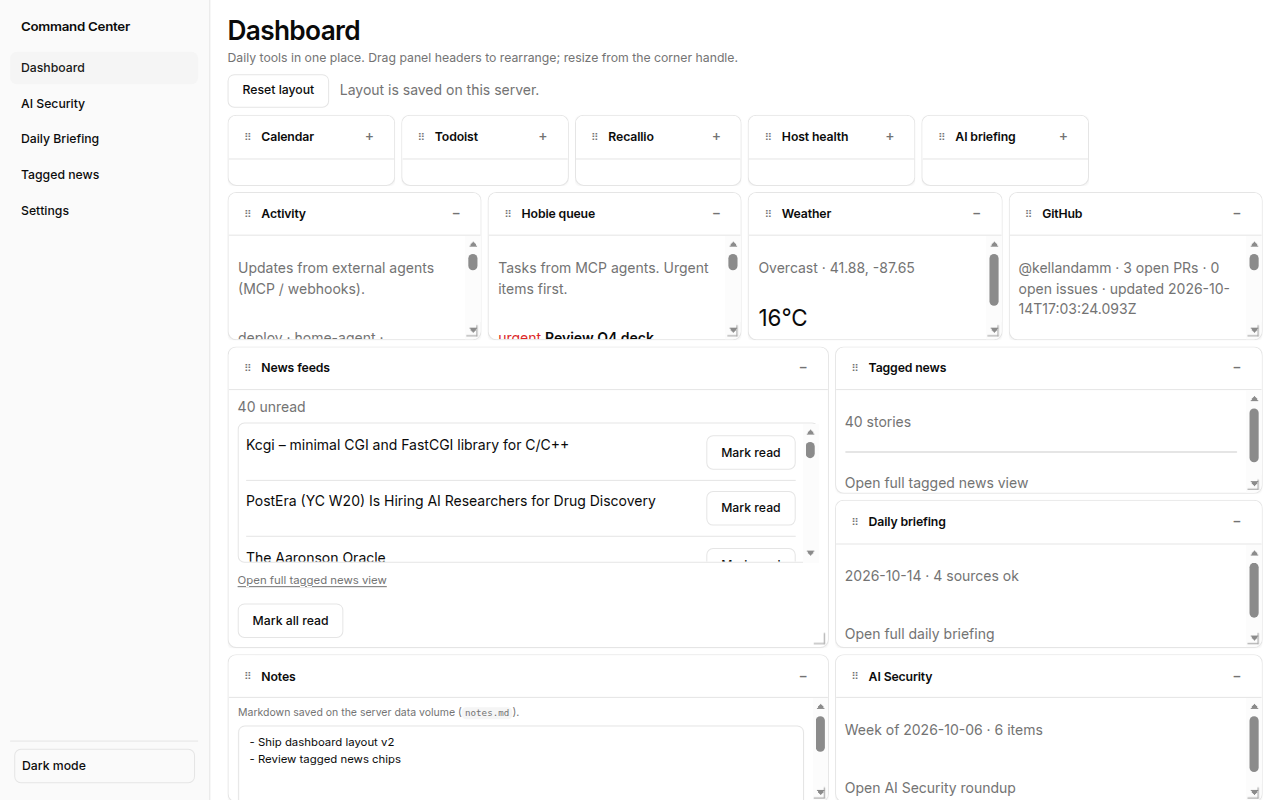
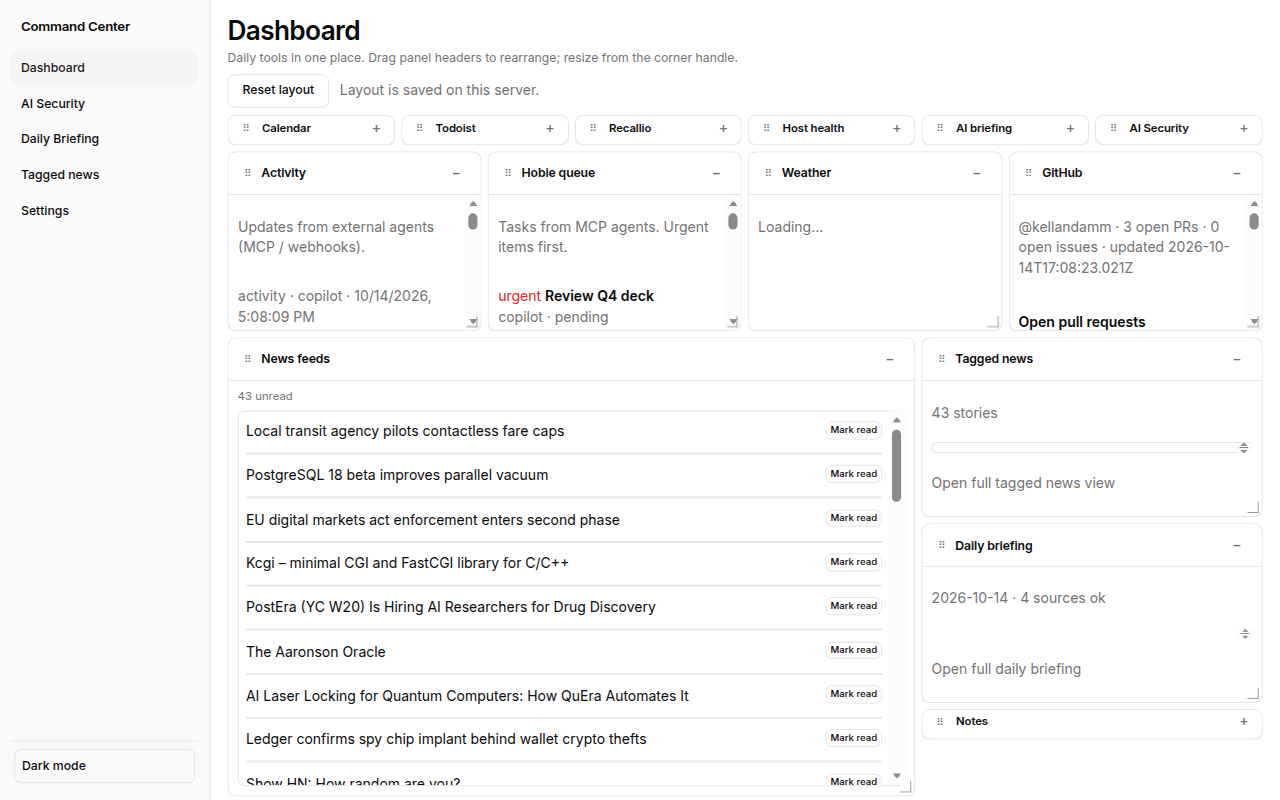
Dashboard: slim collapsed strip, taller feeds, fit 1280×800
- Collapsed-only grid rows use a fixed 30px strip; expanded rows share remaining height.
- Default layout: feeds 8×5, notes/ai-security collapsed, no bottom clipping.
- Compact feed rows in the dashboard tile; seed extra headlines for screenshots.

diff --git a/apps/server/src/ui/dashboard-grid.ts b/apps/server/src/ui/dashboard-grid.ts
@@ -18,7 +18,13 @@ export const dashboardGridCss = `
   min-width:0;min-height:0;overflow:hidden;display:flex;flex-direction:column;position:relative;
   grid-column:var(--gc-start)/span var(--gc-span);grid-row:var(--gr-start)/span var(--gr-span)}
 .dashboard-item.is-dragging{opacity:.92;z-index:30;box-shadow:0 8px 24px rgba(0,0,0,.12)}
+.dashboard-item.is-collapsed{align-self:start;height:var(--dash-strip-h,30px)!important;max-height:var(--dash-strip-h,30px)}
 .dashboard-item.is-collapsed .dashboard-panel-body{display:none}
+.dashboard-item.is-collapsed>.card{flex:0 0 auto;height:100%;min-height:0}
+.dashboard-item.is-collapsed .dashboard-panel-chrome{padding:.28rem .45rem;border-bottom:0;min-height:0}
+.dashboard-item.is-collapsed .dashboard-panel-chrome h2{font-size:.8125rem;line-height:1.2}
+.dashboard-item.is-collapsed .dashboard-drag-handle,.dashboard-item.is-collapsed .dashboard-collapse{
+  min-height:auto;min-width:1.6rem;padding:.1rem .2rem}
 .dashboard-item>.card{
   flex:1;min-height:0;display:flex;flex-direction:column;margin:0;padding:0;overflow:hidden}
 .dashboard-panel-chrome{
@@ -62,7 +68,14 @@ details.feed-item[open] .feed-headline summary::before{content:"▾ "}
 #panel-feeds .feeds-full-link{margin:.25rem 0 0;font-size:.8125rem;flex-shrink:0}
 #panel-feeds .feeds-full-link a{text-decoration:underline;text-underline-offset:2px}
 #panel-feeds .row{flex-shrink:0}
-#panel-feeds #feeds-status{flex-shrink:0;margin:0}
+#panel-feeds #feeds-status{flex-shrink:0;margin:0;font-size:.8125rem}
+#panel-feeds .feeds-full-link,#panel-feeds .row:last-of-type{display:none}
+#panel-feeds .feed-item{margin:0;border-bottom:1px solid var(--border)}
+#panel-feeds .feed-item:last-child{border-bottom:0}
+#panel-feeds .feed-headline summary{font-size:.8125rem;font-weight:500;line-height:1.25}
+#panel-feeds .feed-meta{display:none}
+#panel-feeds .feed-item .feed-summary{display:none}
+#panel-feeds .feed-headline .ghost.mark-read{font-size:.6875rem;padding:.05rem .3rem;min-height:auto}
 @media(max-width:900px){
   .dashboard-grid{grid-template-columns:repeat(6,minmax(0,1fr))}
   .dashboard-item{grid-column:1/-1!important;grid-row:auto!important;height:auto!important}
@@ -75,38 +88,71 @@ export function dashboardGridScript(): string {
 (function(){
   var grid=document.getElementById("dashboard-grid");
   if(!grid)return;
-  var COLS=12,LAYOUT_VERSION=2,GAP=6,REF_ROW=32,saveTimer=null,lastMovedId=null;
+  var COLS=12,LAYOUT_VERSION=2,GAP=6,REF_ROW=32,STRIP_H=30,saveTimer=null,lastMovedId=null;
   grid.style.setProperty("--dash-gap",GAP+"px");
+  grid.style.setProperty("--dash-strip-h",STRIP_H+"px");
   grid.style.setProperty("--dash-rows","8");
-  function layoutRowCount(panels){
-    var max=8;
+  function layoutMaxEnd(panels){
+    var max=1;
     (panels||[]).forEach(function(p){
       var end=p.y+(p.collapsed?1:p.h);
       if(end>max)max=end;
     });
     return max;
   }
+  function effH(p){return p.collapsed?1:p.h}
+  function panelCoversRow(p,row){
+    var end=p.y+effH(p);
+    return p.y<=row&&row<end;
+  }
+  function rowIsStripOnly(panels,row){
+    var hits=(panels||[]).filter(function(p){return panelCoversRow(p,row)});
+    return hits.length>0&&hits.every(function(p){return p.collapsed});
+  }
   function syncGridRows(panels){
-    var rows=layoutRowCount(panels);
-    grid.style.setProperty("--dash-rows",String(rows));
+    var maxEnd=layoutMaxEnd(panels);
+    grid.style.setProperty("--dash-rows",String(maxEnd));
     var page=document.querySelector(".dashboard-page");
     if(!page)return;
     var header=page.querySelector(".page-header");
     var toolbar=page.querySelector(".dashboard-toolbar");
-    var chrome=(header?header.offsetHeight:0)+(toolbar?toolbar.offsetHeight:0)+6;
-    var avail=Math.max(160,page.clientHeight-chrome);
-    var rowH=Math.max(44,(avail-GAP*(rows-1))/rows);
-    grid.style.gridTemplateRows="repeat("+rows+", "+rowH+"px)";
-    grid.style.height=(rowH*rows+GAP*(rows-1))+"px";
+    var chrome=(header?header.offsetHeight:0)+(toolbar?toolbar.offsetHeight:0)+10;
+    var avail=Math.max(160,page.clientHeight-chrome-6);
+    var stripRows=0,flexRows=0;
+    for(var r=0;r<maxEnd;r++){
+      if(rowIsStripOnly(panels,r)){stripRows++}else{flexRows++}
+    }
+    var gapTotal=GAP*(maxEnd-1);
+    var rowH=flexRows?Math.max(42,Math.floor((avail-stripRows*STRIP_H-gapTotal)/flexRows)):STRIP_H;
+    var tracks=[];
+    for(var ri=0;ri<maxEnd;ri++){
+      tracks.push(rowIsStripOnly(panels,ri)?STRIP_H+"px":rowH+"px");
+    }
+    var totalH=stripRows*STRIP_H+flexRows*rowH+gapTotal;
+    grid.style.gridTemplateRows=tracks.join(" ");
+    grid.style.height=totalH+"px";
+    grid.style.maxHeight=avail+"px";
     grid.dataset.rowPx=String(rowH);
+    grid.dataset.stripPx=String(STRIP_H);
+    grid.dataset.maxEnd=String(maxEnd);
   }
   function gridMetrics(){
-    var rows=parseInt(grid.style.getPropertyValue("--dash-rows"),10)||parseInt(grid.dataset.rows||"8",10);
+    var maxEnd=parseInt(grid.dataset.maxEnd||"8",10)||8;
+    var strip=parseFloat(grid.dataset.stripPx||"0")||0;
     var rowH=parseFloat(grid.dataset.rowPx||"52")||52;
     var r=grid.getBoundingClientRect();
-    if(r.height>0)rowH=(r.height-GAP*(rows-1))/rows;
     var colW=COLS?(r.width-GAP*(COLS-1))/COLS:80;
-    return {rows:rows,rowH:rowH,colW:colW};
+    return {rows:maxEnd,rowH:rowH,strip:strip,colW:colW};
+  }
+  function rowIndexFromY(clientY,gridTop,m){
+    var y=clientY-gridTop;
+    var maxEnd=parseInt(grid.dataset.maxEnd||"8",10)||8;
+    for(var r=0;r<maxEnd;r++){
+      var h=rowIsStripOnly(readLayout().panels,r)?m.strip:m.rowH;
+      if(y<h)return r;
+      y-=h+GAP;
+    }
+    return Math.max(0,maxEnd-1);
   }
 
   function titleFor(id){
@@ -153,7 +199,6 @@ export function dashboardGridScript(): string {
     return {version:LAYOUT_VERSION,cols:COLS,rowHeight:REF_ROW,panels:panels};
   }
 
-  function effH(p){return p.collapsed?1:p.h}
   function overlaps(a,b){
     return a.x<b.x+b.w&&a.x+a.w>b.x&&a.y<b.y+effH(b)&&a.y+effH(a)>b.y;
   }
@@ -208,7 +253,7 @@ export function dashboardGridScript(): string {
     var m=gridMetrics();
     var r=grid.getBoundingClientRect();
     var x=Math.floor((clientX-r.left)/(m.colW+GAP));
-    var y=Math.floor((clientY-r.top)/(m.rowH+GAP));
+    var y=rowIndexFromY(clientY,r.top,m);
     return {x:Math.max(0,Math.min(COLS-1,x)),y:Math.max(0,y)};
   }
 
@@ -242,6 +287,7 @@ export function dashboardGridScript(): string {
         var btn=this;
         btn.setAttribute("aria-expanded",collapsed?"false":"true");
         btn.textContent=collapsed?"+":"−";
+        syncGridRows(readLayout().panels);
         lastMovedId=id;
         scheduleSave();
       });

diff --git a/apps/server/src/dashboard-layout/defaults.ts b/apps/server/src/dashboard-layout/defaults.ts
@@ -8,11 +8,12 @@ export const DEFAULT_COLLAPSED_PANEL_IDS = new Set<string>([
   "recallio",
   "briefing",
   "host-health",
+  "notes",
+  "ai-security",
 ]);
 
 /**
- * 14 tiles — News feeds is the hero tile (7×4). Low-priority integrations start collapsed on row 0.
- * The client scales row height to fit the dashboard viewport (no page scroll at 1280×800).
+ * 14 tiles — slim collapsed strip on row 0; News feeds hero (8×5). Fits 1280×800 without clipping.
  */
 export const DEFAULT_PANEL_LAYOUT: PanelLayoutEntry[] = [
   { id: "calendar", x: 0, y: 0, w: 2, h: 2, collapsed: true },
@@ -20,15 +21,15 @@ export const DEFAULT_PANEL_LAYOUT: PanelLayoutEntry[] = [
   { id: "recallio", x: 4, y: 0, w: 2, h: 2, collapsed: true },
   { id: "host-health", x: 6, y: 0, w: 2, h: 2, collapsed: true },
   { id: "briefing", x: 8, y: 0, w: 2, h: 2, collapsed: true },
+  { id: "ai-security", x: 10, y: 0, w: 2, h: 2, collapsed: true },
   { id: "activity", x: 0, y: 1, w: 3, h: 2 },
   { id: "hobie", x: 3, y: 1, w: 3, h: 2 },
   { id: "weather", x: 6, y: 1, w: 3, h: 2 },
   { id: "github", x: 9, y: 1, w: 3, h: 2 },
-  { id: "feeds", x: 0, y: 3, w: 7, h: 4 },
-  { id: "tagged-news", x: 7, y: 3, w: 5, h: 2 },
-  { id: "daily-briefing", x: 7, y: 5, w: 5, h: 2 },
-  { id: "ai-security", x: 7, y: 7, w: 5, h: 2 },
-  { id: "notes", x: 0, y: 7, w: 7, h: 2 },
+  { id: "feeds", x: 0, y: 3, w: 8, h: 5 },
+  { id: "tagged-news", x: 8, y: 3, w: 4, h: 2 },
+  { id: "daily-briefing", x: 8, y: 5, w: 4, h: 2 },
+  { id: "notes", x: 8, y: 7, w: 4, h: 2, collapsed: true },
 ];
 
 const DEFAULT_BY_ID = new Map(DEFAULT_PANEL_LAYOUT.map((p) => [p.id, p]));

diff --git a/apps/server/scripts/seed-dashboard-screenshot.ts b/apps/server/scripts/seed-dashboard-screenshot.ts
@@ -33,6 +33,9 @@ async function main() {
     { title: "Critical OpenSSL patch ships for embedded devices", link: "https://example.com/c", summary: "Vendors urge firmware updates within 48 hours." },
     { title: "AI agents now draft half of internal status updates", link: "https://example.com/d", summary: "Teams still review before posting to company wiki." },
     { title: "Rust 1.90 stabilizes async traits for library authors", link: "https://example.com/e", summary: "Migration guide highlights dyn compatibility changes." },
+    { title: "EU digital markets act enforcement enters second phase", link: "https://example.com/f", summary: "Gatekeepers face quarterly compliance reviews." },
+    { title: "PostgreSQL 18 beta improves parallel vacuum", link: "https://example.com/g", summary: "Large-table maintenance windows may shrink." },
+    { title: "Local transit agency pilots contactless fare caps", link: "https://example.com/h", summary: "Daily spend limits apply across bus and rail." },
   ], now);
   await feeds.save();
 

diff --git a/apps/server/test/dashboard-layout.test.ts b/apps/server/test/dashboard-layout.test.ts
@@ -83,9 +83,11 @@ test("dashboard layout: v1 saved file maps positions into v2 grid", () => {
 test("dashboard layout: default collapses low-priority panels and enlarges feeds", () => {
   const layout = defaultDashboardLayout(PANEL_IDS);
   const feeds = layout.panels.find((p) => p.id === "feeds")!;
-  assert.ok(feeds.w >= 7 && feeds.h >= 4);
+  assert.ok(feeds.w >= 8 && feeds.h >= 5);
   assert.equal(layout.panels.find((p) => p.id === "calendar")?.collapsed, true);
-  assert.equal(layout.panels.find((p) => p.id === "todoist")?.collapsed, true);
+  assert.equal(layout.panels.find((p) => p.id === "notes")?.collapsed, true);
+  const maxEnd = layout.panels.reduce((m, p) => Math.max(m, p.y + (p.collapsed ? 1 : p.h)), 0);
+  assert.ok(maxEnd <= 8, "default layout should fit in eight grid rows");
 });
 
 test("dashboard layout: normalize adds missing panels and drops unknown ids", () => {
